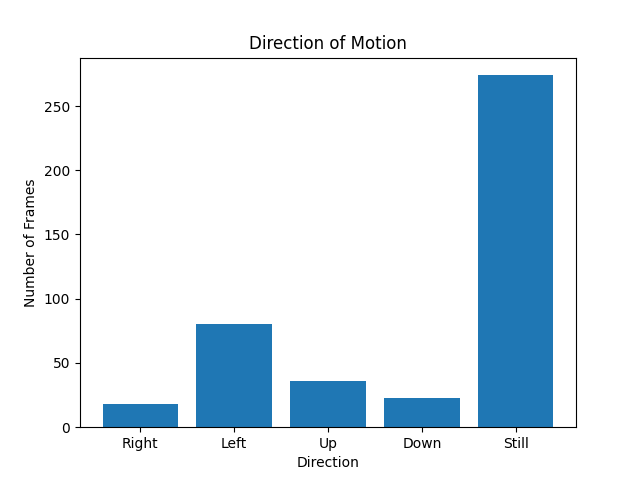
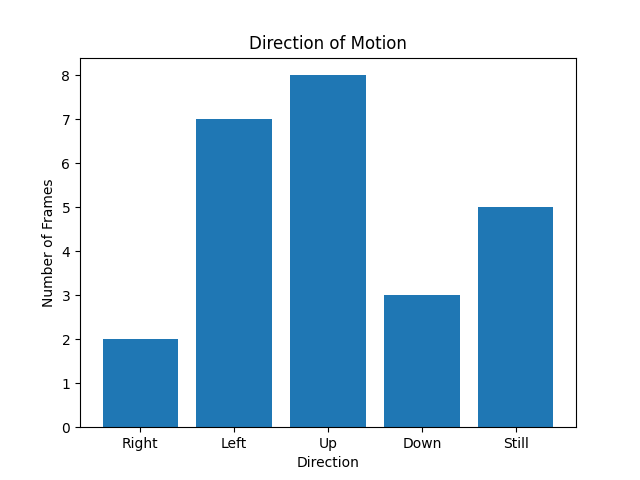
PSNR

diff --git a/tst.py b/tst.py
@@ -6,6 +6,8 @@ import matplotlib.pyplot as plt
 import csv
 import time
 from sklearn.metrics import mean_squared_error
+from skimage.metrics import peak_signal_noise_ratio as psnr
+
 
 # Function to save list to CSV
 def csvSave(file_path, listName):
@@ -101,7 +103,7 @@ motion_vectors_NNMP = []
 motion_vectors_full_search = []
 
 # Process the frames
-for i in range(len(frames) - 1):
+for i in range(len(frames)//20 - 1):
 
     # Convolve the frames with the kernel
     Rf1 = convolve2d(frames[i], K, mode='same')
@@ -224,6 +226,37 @@ plt.ylabel('Mean Squared Error')
 plt.savefig('MSEOverFrames.png')
 plt.show()
 
+# Assume that each motion vector is a pixel value in our generated images
+mv_image_NNMP = np.array(motion_vectors_NNMP, dtype=np.float64)
+mv_image_FS = np.array(motion_vectors_full_search, dtype=np.float64)
+original_image = np.array(frames[:-1], dtype=np.float64)
+
+mv_image_NNMP_resized = cv2.resize(mv_image_NNMP, (original_image.shape[2], original_image.shape[1]), interpolation = cv2.INTER_AREA)
+mv_image_FS_resized = cv2.resize(mv_image_FS, (original_image.shape[2], original_image.shape[1]), interpolation = cv2.INTER_AREA)
+
+psnr_NNMP_list = []
+psnr_FS_list = []
+
+for i in range(original_image.shape[0]):
+    psnr_NNMP_list.append(psnr(original_image[i], mv_image_NNMP_resized, data_range=255))
+    psnr_FS_list.append(psnr(original_image[i], mv_image_FS_resized, data_range=255))
+
+# Then you can calculate the average PSNR for each method
+psnr_NNMP = np.mean(psnr_NNMP_list)
+psnr_FS = np.mean(psnr_FS_list)
+
+print(f"PSNR for NNMP: {psnr_NNMP}")
+print(f"PSNR for Full Search: {psnr_FS}")
+
+# Plotting the comparison
+labels = ['NNMP', 'Full Search']
+psnr_values = [psnr_NNMP, psnr_FS]
+
+plt.bar(labels, psnr_values)
+plt.title('PSNR Comparison')
+plt.xlabel('Algorithm')
+plt.ylabel('PSNR')
+plt.savefig('PSNRComparison.png')
+plt.show()
+
 csvSave('magnitudes.csv',magnitudes)
-
-

diff --git a/README.md b/README.md
@@ -1,5 +1,3 @@
-Sure, here's how your revised document would look like:
-
 ## Comparison of Full Search and Number of Non-Matching Points Algorithms for Motion Estimation in Video Processing
 
 ### Abstract
@@ -48,11 +46,21 @@ Further analysis on the direction of motion was conducted.
 Figure 4: Direction of Motion
 ![Direction of Motion](DirectionOfMotion.png)
 
+### Image Quality
+To compare the image quality produced by both methods, the Peak Signal-to-Noise Ratio (PSNR) was calculated. The PSNR for the NNMP method was found to be 6.16, while for the Full Search method, it was 6.75. 
+
+Figure 5: PSNR Comparison
+![PSNR Comparison](PSNRComparison.png)
+
+This figure represents the comparison of PSNR values for both Full Search and NNMP algorithms. The higher the PSNR, the better the quality of the compressed or reconstructed image.
+
 ### Discussion
-The observed time efficiency of NNMP can be attributed to its approach of computing a score for each possible motion vector and updating the best motion vector, compared to Full Search's exhaustive search method. Despite the time advantage of NNMP, the varying MSE values suggest a potential trade-off between time efficiency and accuracy of motion estimation.
+The observed time efficiency of NNMP can be attributed to its approach of computing a score for each possible motion vector and updating the best motion vector, compared to Full Search's exhaustive search method. Despite the time advantage of NNMP, the varying MSE values suggest a potential trade-off between time efficiency and accuracy of motion estimation. Additionally, the slightly higher PSNR value for Full Search may
+
+ indicate a better image quality than NNMP, albeit marginally.
 
 ### Conclusion
-The findings underscore the importance of understanding the specific requirements of any given task. While NNMP offers significant time efficiency, the selection between Full Search and NNMP should consider the acceptable trade-offs in terms of motion estimation accuracy.
+The findings underscore the importance of understanding the specific requirements of any given task. While NNMP offers significant time efficiency, the selection between Full Search and NNMP should consider the acceptable trade-offs in terms of motion estimation accuracy and image quality.
 
 ### References
 This section will include references to the foundational works or other relevant studies, if any, that have been referred to in this document.
